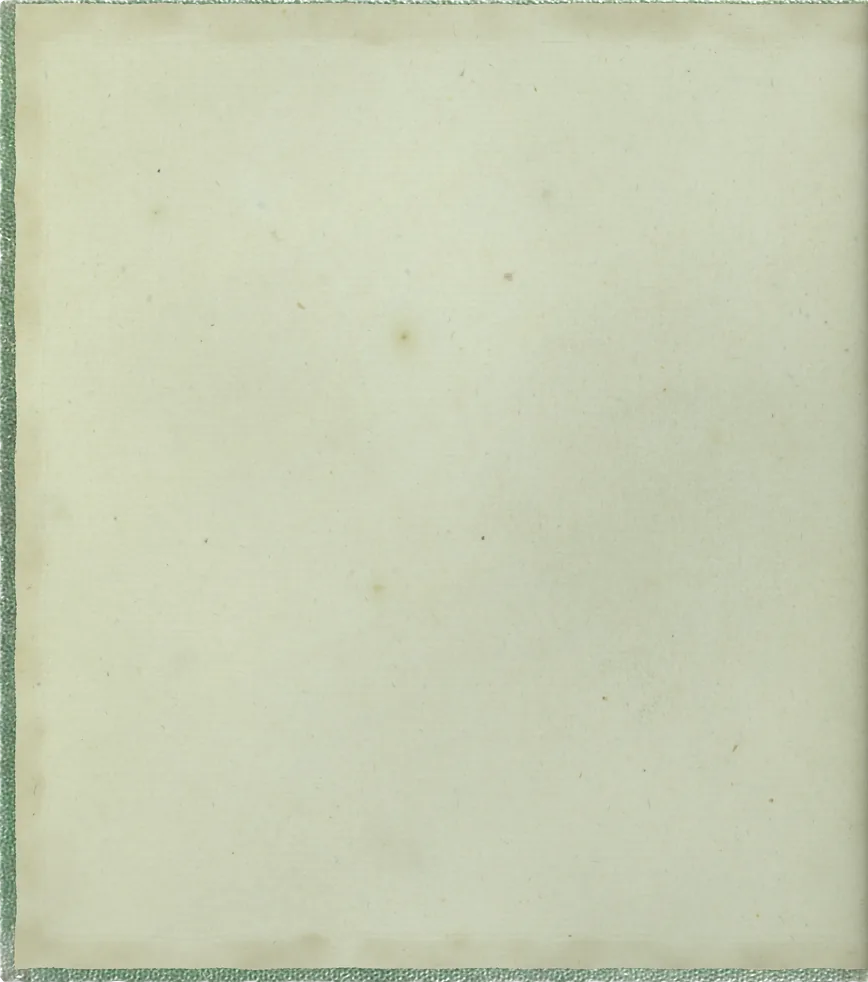
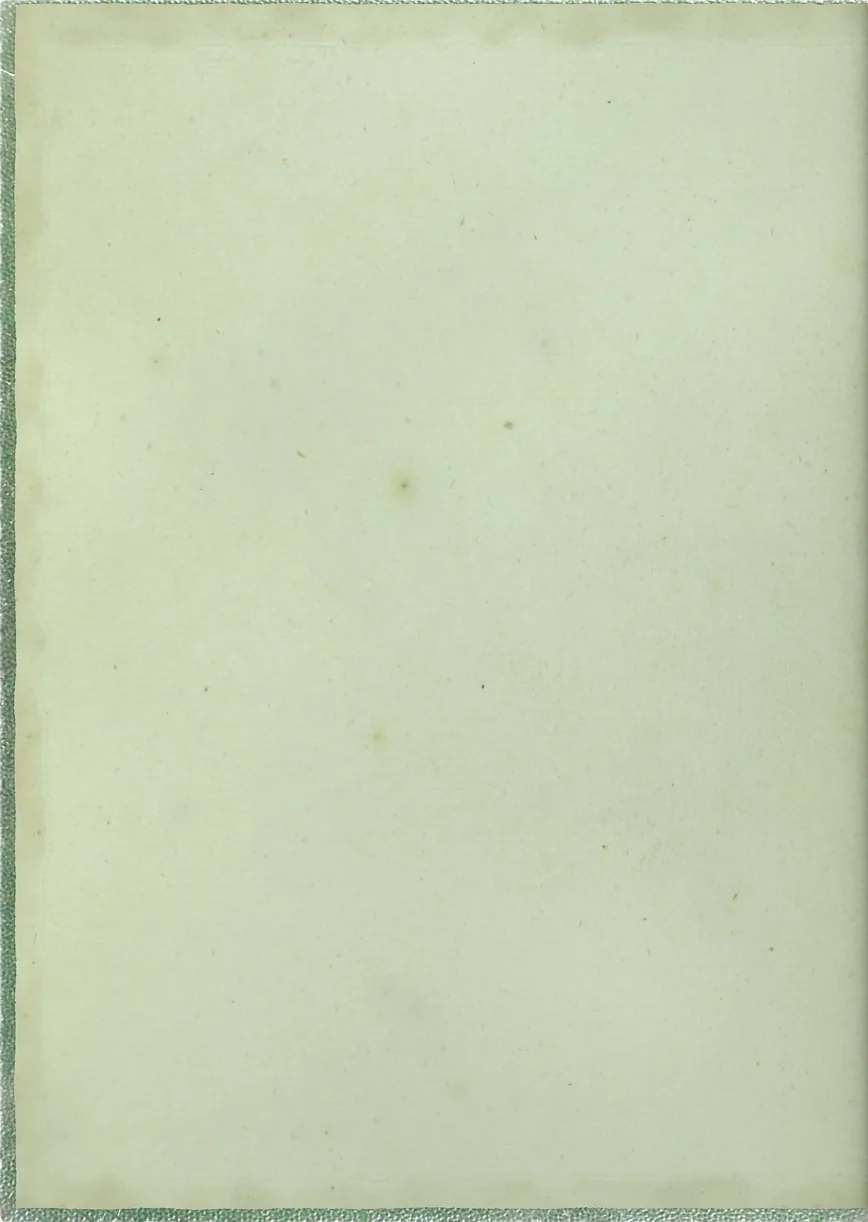
feat(v5/couverture): couverture recuite au format 17 × 24
Claude-Session: https://claude.ai/code/session_01HsT19mmaSW8gLnbYG5FUm2

diff --git a/scripts/pages/couverture.py b/scripts/pages/couverture.py
@@ -1246,8 +1246,8 @@ def ecrire_manifeste(variantes: dict, indices: dict | None):
             (COMPAREES / "couverture" / k / "manifeste.json").write_text(json.dumps(v, indent=1, ensure_ascii=False) + "\n")
     man = {
         "_": "Écrit par scripts/pages/couverture.py (lot C). Noms logiques d'assetUrl() (design-system/baked/…). "
-             "Rectangles en fractions du plat [x, y, largeur, hauteur]. Plat de référence : 868 × 982 px "
-             "(page 850 × 960 + débords du carton 18 / 6 / 16), cuit à 2× (et 1×).",
+             "Rectangles en fractions du plat [x, y, largeur, hauteur]. Plat de référence : 868 × 1222 px "
+             "(page 850 × 1200 + débords du carton 18 / 6 / 16), cuit à 2× (et 1×).",
         "version": 1,
         "active": ACTIVE,
         "plat": [PLAT_W, PLAT_H],
